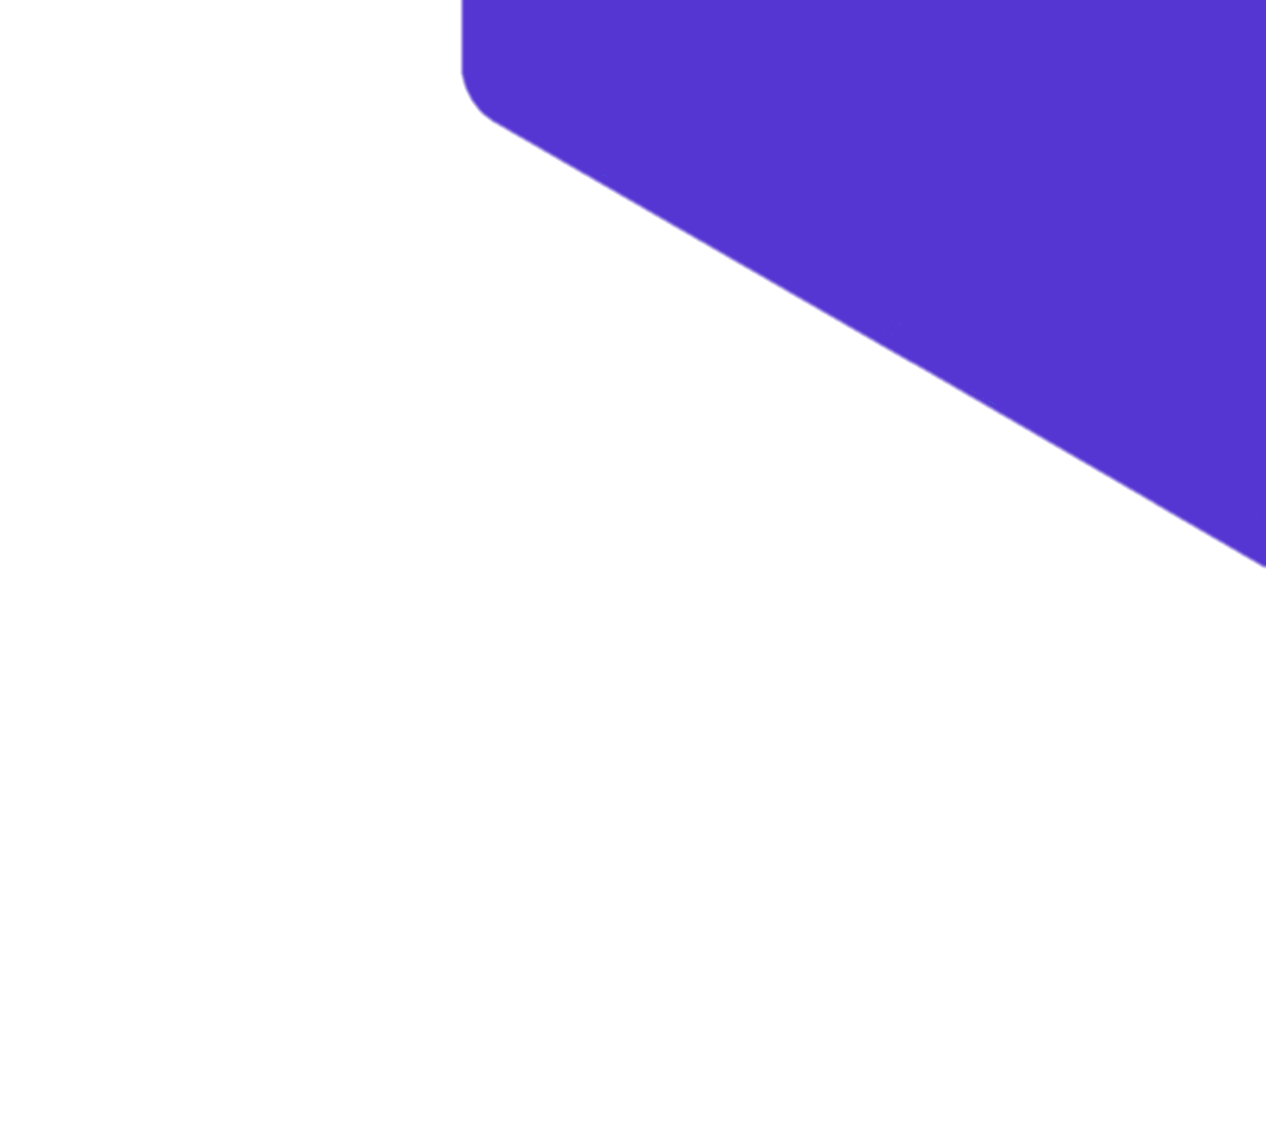
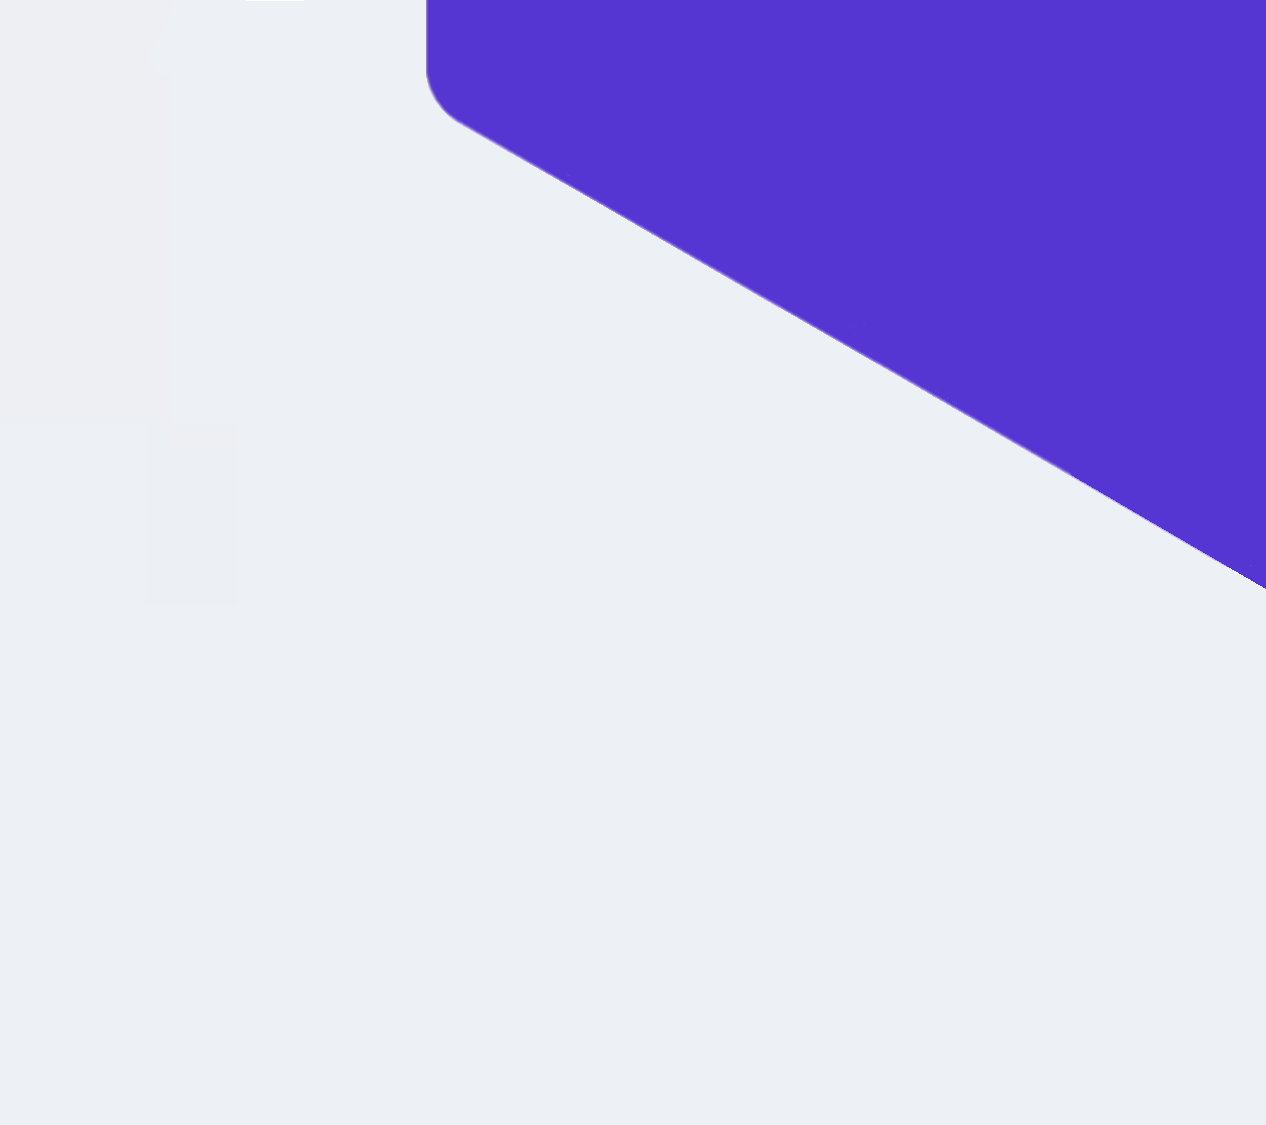
Arreglo la imágen y otros detalles de distancia

Changed region(s): [[0.3389, 0.0, 1.0, 0.5289]]

diff --git a/src/Components/MainSection.js b/src/Components/MainSection.js
@@ -1,7 +1,7 @@
 import React from 'react';
 import IconoBusqueda from '../Images/Icono de busqueda naranja.png';
 import DosPersonasImagen from '../Images/Imagen dos personas dandose la mano.png';
-
+import RemplazoImagen from '../Images/Agreement-amico.svg';
 //Estilos
 import './css/MainSection.css';
 import './css/MainSectionGrid.css';
@@ -18,6 +18,8 @@ function MainSection(props)
                         <button className="FormButton" type="submit"><img className="LogoBusqueda" src={IconoBusqueda} alt="Icono de busqueda naranja"/></button>
                     </form>
                     <img className="MainImagen" src={DosPersonasImagen} alt="Imagen dos personas dandose la mano, representa un acuerdo, hay dinero, un contrato de fondo y una lupa en el contrato que representa detalles"/>
+                    {/* <img className="MainImagen" src={RemplazoImagen} alt="Imagen dos personas dandose la mano, representa un acuerdo, hay dinero, un contrato de fondo y una lupa en el contrato que representa detalles"/> */}
+
             </section>
 
         </React.Fragment>

diff --git a/src/Pages/Index.js b/src/Pages/Index.js
@@ -2,12 +2,17 @@ import React from 'react';
 //Componentes
 import MainSectionConstructor from '../Components/Constructors/MainSectionConstructor';
 import JobsConstructor from '../Components/Constructors/JobsConstructor';
+import HeaderConstructor from '../Components/Constructors/HeaderConstructor'
 //Estilos
 import './css/Index.css'
 function Index(props) {
     return(
         <React.Fragment>
+            <div className="Top">
+
+            <HeaderConstructor/>
             <MainSectionConstructor/>
+            </div>
             <JobsConstructor/>
         </React.Fragment>
     )

diff --git a/src/App.js b/src/App.js
@@ -12,11 +12,11 @@ function App()
     return (
         //Aquí todas las rutas con el switch
         <BrowserRouter>
-            <Layout>
+            {/* <Layout> */}
                 <Switch>
                     <Route exact path = "/"                     component = { IndexContainer } />
                 </Switch>
-            </Layout>
+            {/* </Layout> */}
         </BrowserRouter>
     );
 }

diff --git a/src/Components/css/Jobs.css b/src/Components/css/Jobs.css
@@ -4,7 +4,7 @@
   /* Cambiar margin en grid */
   -webkit-box-shadow: inset 20px 240px 0px -59px rgba(0, 0, 0, 0.87);
   -moz-box-shadow: inset 20px 240px 0px -59px rgba(0, 0, 0, 0.87);
-  box-shadow: inset 20px 240px 0px -59px rgba(239, 242, 247, 0.87);
+  box-shadow: inset 20px 240px 0px -59px rgba(237, 240, 244, 0.87);
 }
 .Empresas .PrimerP {
   font-size: 11px;

diff --git a/src/Components/css/Header.css b/src/Components/css/Header.css
@@ -1,5 +1,5 @@
 .Header {
-  background-color: rgb(239, 242, 247);
+  /* background-color: rgb(239, 242, 247); */
 
   font-size: 11px;
 }
@@ -15,7 +15,7 @@
 .Header a {
   text-decoration: none;
   color: rgb(243, 240, 255);
-  background-color: rgb(75, 94, 214);
+  background-color: rgb(86, 54, 210);
   text-align: center;
 }
 .Header a:hover {

diff --git a/src/Components/Layout.js b/src/Components/Layout.js
@@ -7,8 +7,8 @@ function Layout(props)
     //Permite que funcione el switch de rutas
     return (
         <React.Fragment>
-            <HeaderConstructor />
-            {props.children}
+            {/* <HeaderConstructor />
+            {props.children} */}
         </React.Fragment>
     );
 }

diff --git a/src/Components/css/MainSectionGrid.css b/src/Components/css/MainSectionGrid.css
@@ -32,11 +32,11 @@
     left: 82%;
   }
   .Main .MainImagen {
-    background-color: blue;
+    /* background-color: blue; */
     grid-column-start: 16;
     grid-column-end: 25;
     grid-row-start: 2;
-    grid-row-end: 11;
+    grid-row-end: 12;
   }
 }
 @media (max-width: 768px) {

diff --git a/src/Pages/css/Index.css b/src/Pages/css/Index.css
@@ -1,0 +1,11 @@
+@media (max-width: 3000px) {
+  .Top {
+    background-image: url("../../Images/Fondo.png");
+    background-size: cover;
+  }
+}
+@media (max-width: 768px) {
+  .Top {
+    background-image: url("../../Images/Fondo-SinFondo.png");
+  }
+}

diff --git a/public/css/GlobalStyle.css b/public/css/GlobalStyle.css
@@ -4,5 +4,5 @@
   padding: 0;
 }
 .Body {
-  background-image: url("../../src/Images/Fondo.png");
+  background-image: url("../../Images/Fondo.png");
 }

diff --git a/src/Components/css/MainSection.css b/src/Components/css/MainSection.css
@@ -1,5 +1,5 @@
 .Main {
-  background-color: rgb(239, 242, 247);
+  /* background-color: rgb(239, 242, 247); */
 }
 .Main .PrimerP {
   font-size: 11px;
